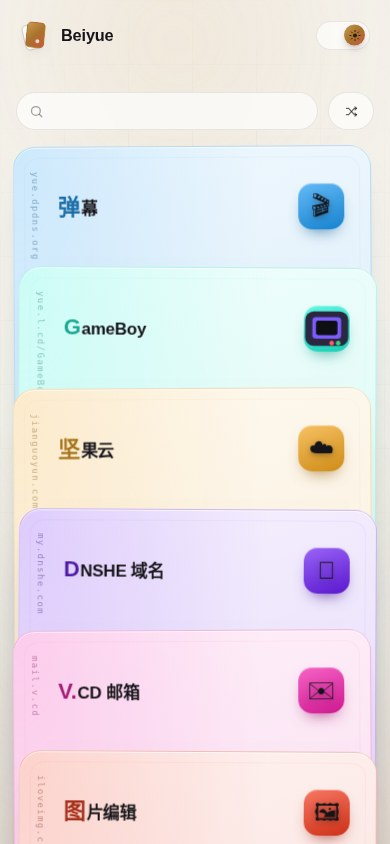
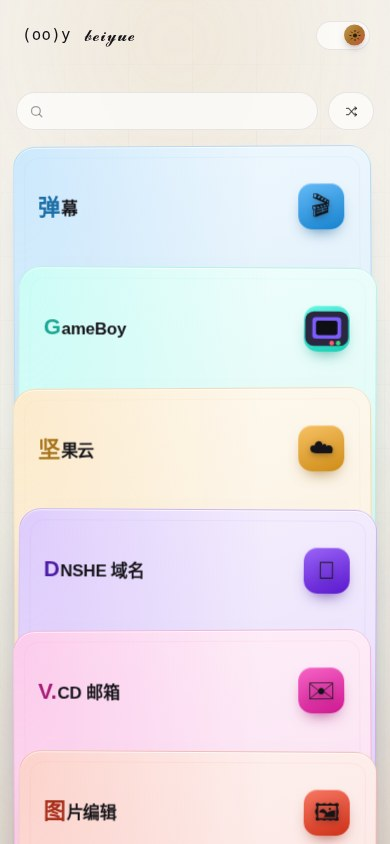
feat: no motion at all on narrow screens

diff --git a/src/components/NavBar.vue b/src/components/NavBar.vue
@@ -7,6 +7,50 @@ const { theme, toggle } = useTheme()
 const scrolled = ref(false)
 let raf = 0
 
+/**
+ * 左上角的字标是一枚颜文字：进来是笑脸，离开是不舍。
+ * 三段文字等宽（括号 + 两只眼 + 括号 + 手势，共 5 格），
+ * 换表情时导航栏不会跳动。
+ */
+const FACES = {
+  idle: { text: '(oo)y', label: '平静' },
+  happy: { text: '(^^)Y', label: '开心' },
+  sad: { text: '(TT)y', label: '不舍' }
+}
+const mood = ref('idle')
+const hovering = ref(false)
+let moodTimer = 0
+
+function clearMoodTimer() {
+  clearTimeout(moodTimer)
+  moodTimer = 0
+}
+
+function enterFace() {
+  hovering.value = true
+  clearMoodTimer()
+  mood.value = 'happy'
+}
+
+function leaveFace() {
+  hovering.value = false
+  clearMoodTimer()
+  mood.value = 'sad'
+  // 不舍一会儿，再回到平静；期间如果又回来了，enter 会接管
+  moodTimer = window.setTimeout(() => {
+    if (!hovering.value) mood.value = 'idle'
+  }, 1200)
+}
+
+/** 点击（含触屏）也给一次笑脸反馈 */
+function cheer() {
+  clearMoodTimer()
+  mood.value = 'happy'
+  moodTimer = window.setTimeout(() => {
+    mood.value = hovering.value ? 'happy' : 'idle'
+  }, 900)
+}
+
 function onScroll() {
   if (raf) return
   raf = requestAnimationFrame(() => {
@@ -23,16 +67,28 @@ onMounted(() => {
 onBeforeUnmount(() => {
   window.removeEventListener('scroll', onScroll)
   if (raf) cancelAnimationFrame(raf)
+  clearMoodTimer()
 })
 </script>
 
 <template>
   <header class="nav" :class="{ 'nav--scrolled': scrolled }">
     <div class="nav__inner">
-      <a class="brand" href="#top" :aria-label="`${site.name} 主页`">
+      <a
+        class="brand"
+        href="#top"
+        :aria-label="`${site.name} 主页`"
+        @mouseenter="enterFace"
+        @mouseleave="leaveFace"
+        @focus="enterFace"
+        @blur="leaveFace"
+        @click="cheer"
+      >
         <span class="mark" aria-hidden="true">
-          <span class="mark__card mark__card--back" />
-          <span class="mark__card mark__card--front" />
+          <span :key="mood" class="face">
+            <span class="face__rest">{{ FACES[mood].text.slice(0, 4) }}</span>
+            <span class="face__hand">{{ FACES[mood].text.slice(4) }}</span>
+          </span>
         </span>
         <span class="brand__text">
           <span class="brand__name">{{ site.name }}</span>
@@ -137,53 +193,58 @@ onBeforeUnmount(() => {
   min-width: 0;
 }
 
-/* 两张叠在一起的小牌，悬停时扇开 */
+/* 颜文字字标：进来笑、离开不舍；五格等宽，换脸不推动标题 */
 .mark {
-  position: relative;
-  width: 30px;
-  height: 34px;
+  display: grid;
+  place-items: center;
   flex-shrink: 0;
+  height: 34px;
+  padding-inline: 2px;
   transition: transform var(--dur-base) var(--ease-spring);
 }
 .brand:hover .mark {
-  transform: rotate(-4deg) scale(1.04);
+  transform: rotate(-4deg) scale(1.03);
 }
 
-.mark__card {
-  position: absolute;
-  top: 4px;
-  left: 6px;
-  width: 19px;
-  height: 26px;
-  border-radius: 5px;
-  border: 1px solid var(--line-strong);
-  transition: transform var(--dur-base) var(--ease-spring), border-color var(--dur-base) var(--ease-out);
+.face {
+  display: inline-flex;
+  align-items: baseline;
+  font-family: var(--font-mono);
+  font-size: 0.98rem;
+  line-height: 1;
+  letter-spacing: 0.02em;
+  white-space: nowrap;
+  color: var(--text);
+  animation: faceIn 300ms var(--ease-spring) both;
 }
-.mark__card--back {
-  transform: rotate(-13deg) translate(-3px, 1px);
-  background: var(--surface-strong);
+
+.face__hand {
+  display: inline-block;
+  transform-origin: 50% 85%;
 }
-.mark__card--front {
-  transform: rotate(6deg);
-  background: var(--accent-grad);
-  border-color: transparent;
-  box-shadow: 0 6px 14px -8px rgba(0, 0, 0, 0.7);
+.brand:hover .face__hand,
+.brand:focus-visible .face__hand {
+  animation: faceWave 900ms var(--ease-in-out) 1;
 }
-.mark__card--front::after {
-  content: '';
-  position: absolute;
-  right: 4px;
-  bottom: 4px;
-  width: 4px;
-  height: 4px;
-  border-radius: 50%;
-  background: rgba(255, 255, 255, 0.72);
+
+@keyframes faceIn {
+  from {
+    opacity: 0;
+    transform: translateY(3px) scale(0.9);
+  }
 }
-.brand:hover .mark__card--back {
-  transform: rotate(-26deg) translate(-6px, 2px);
-}
-.brand:hover .mark__card--front {
-  transform: rotate(15deg) translateX(2px);
+
+@keyframes faceWave {
+  0%,
+  100% {
+    transform: rotate(0deg) translateY(0);
+  }
+  30% {
+    transform: rotate(14deg) translateY(-1px);
+  }
+  60% {
+    transform: rotate(-8deg) translateY(1px);
+  }
 }
 
 .brand__text {
@@ -193,9 +254,12 @@ onBeforeUnmount(() => {
   min-width: 0;
 }
 .brand__name {
-  font-size: 1.02rem;
-  font-weight: 650;
-  letter-spacing: -0.01em;
+  /* 花体数学字母（𝓫𝓮𝓲𝔂𝓾𝓮）优先用带该字符集的字体，避免落到方块 */
+  font-family: 'Cambria Math', 'STIX Two Math', 'Noto Sans Math', 'Segoe UI Symbol',
+    'Apple Symbols', var(--font-sans);
+  font-size: 1.12rem;
+  font-weight: 500;
+  letter-spacing: 0.01em;
   white-space: nowrap;
 }
 .brand__sub {
@@ -266,6 +330,15 @@ onBeforeUnmount(() => {
 @media (max-width: 420px) {
   .brand__sub {
     display: none;
+  }
+}
+
+@media (prefers-reduced-motion: reduce) {
+  .face,
+  .face__hand,
+  .mark {
+    animation: none;
+    transition: none;
   }
 }
 </style>

diff --git a/src/styles/card.css b/src/styles/card.css
@@ -137,8 +137,8 @@
   gap: 14px;
   width: 100%;
   height: 19%;
-  /* 左侧让出竖排地址的车道，避免和名称撞在一起 */
-  padding: 0 26px 0 44px;
+  /* 名称靠左、图标靠右，两侧留同样的呼吸位 */
+  padding: 0 26px 0 24px;
 }
 
 .card__name {
@@ -199,28 +199,6 @@
   text-shadow: 0 1px 3px rgba(0, 0, 0, 0.35);
 }
 
-/* 左缘竖排地址：像防伪码一样沿边缘排布，超出卡面自然渐隐 */
-.card__spine {
-  position: absolute;
-  top: 24px;
-  left: 16px;
-  bottom: 24px;
-  z-index: 2;
-  writing-mode: vertical-rl;
-  font-family: var(--font-mono);
-  font-size: 0.56rem;
-  letter-spacing: 0.16em;
-  color: hsl(var(--hue) 60% 90% / 0.4);
-  overflow: hidden;
-  pointer-events: none;
-  user-select: none;
-  -webkit-mask-image: linear-gradient(to bottom, #000 72%, transparent 100%);
-  mask-image: linear-gradient(to bottom, #000 72%, transparent 100%);
-}
-:root[data-theme='light'] .card__spine {
-  color: hsl(var(--hue) 45% 40% / 0.5);
-}
-
 /* ── 宽屏：16:9 横卡 ───────────────────────────────────── */
 @media (min-width: 720px) {
   .card {
@@ -230,7 +208,7 @@
   .card__corner {
     height: 30%;
     gap: 16px;
-    padding: 0 30px 0 50px;
+    padding: 0 30px 0 30px;
   }
 
   .card__icon {
@@ -253,13 +231,6 @@
 
   .card__name::first-letter {
     font-size: 1.4em;
-  }
-
-  .card__spine {
-    top: 26px;
-    left: 18px;
-    bottom: 26px;
-    font-size: 0.58rem;
   }
 }
 

diff --git a/src/components/DeckCard.vue b/src/components/DeckCard.vue
@@ -33,17 +33,6 @@ const showIcon = computed(() => Boolean(props.app.icon) && iconOk.value)
 const showEmoji = computed(() => !showIcon.value && Boolean(props.app.emoji))
 const initial = computed(() => props.app.name.slice(0, 1))
 
-/** 左缘竖排的地址：域名 + 路径，去掉协议头与末尾斜杠 */
-const address = computed(() => {
-  if (!props.app.url) return 'url not set'
-  try {
-    const { hostname, pathname, search, hash } = new URL(props.app.url, document.baseURI)
-    return `${hostname.replace(/^www\./, '')}${pathname}${search}${hash}`.replace(/\/+$/, '')
-  } catch (e) {
-    return props.app.url
-  }
-})
-
 /** 奇偶微微交错，像被随手码好的一叠牌；底牌端正摆放 */
 const style = computed(() => {
   const stagger = props.isLast ? 0 : props.index % 2 === 0 ? -1 : 1
@@ -90,9 +79,6 @@ const style = computed(() => {
           <span v-else class="card__initial">{{ initial }}</span>
         </span>
       </span>
-
-      <!-- 左缘竖排地址：牌向左抽出时，这一条始终在视野里 -->
-      <span class="card__spine" aria-hidden="true">{{ address }}</span>
     </span>
   </a>
 </template>

diff --git a/src/data/site.js b/src/data/site.js
@@ -14,7 +14,7 @@
  */
 
 export const site = {
-  name: 'Beiyue',
+  name: '𝓫𝓮𝓲𝔂𝓾𝓮',
   sub: 'home',
   title: 'Beiyue home',
   hint: '上下滑动翻牌 · 点开就用',
@@ -71,7 +71,7 @@ const SAMPLES = [
     en: 'DNSHE',
     tag: '工具',
     desc: '解析、转发、记录，一处管好域名。',
-    url: 'https://my.dnshe.com/',
+    url: 'https://my.dnshe.com/clientarea.php?language=chinese',
     emoji: '🌐',
     hue: 262
   },
